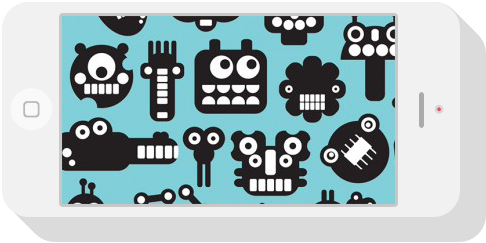
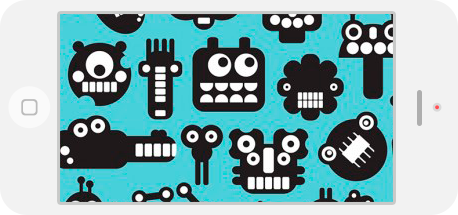
fead: add actions

diff --git a/index.html b/index.html
@@ -49,8 +49,10 @@
             <li>
                <div class="slider__slides block-color-pink">
                   <div class="slider__container container">
+                     <img class="slider__image shadow" src="assets/images/shadow.png">
                      <img class="slider__image slider__phone-vertical" src="assets/images/iPhone Vertical.png">
                      <div class="monitor-black vertical"></div>
+                     <img class="slider__image shadow-horizontal" src="assets/images/shadow.png">
                      <img class="slider__image slider__phone-horizontal" src="assets/images/iPhone Horizontal.png">
                      <div class="monitor-black horizontal"></div>
                   </div>
@@ -263,17 +265,25 @@
             ligula, eget lacinia odio sem nec elit. Fusce dapibus, tellus ac cursus commodo, tortor mauris
             condimentum nibh.</p>
          <div class="contacts__footer container-flex">
-            <form class="contacts__form">
+            <form class="contacts__form" action="#">
                <input type="text" name="name" required class="contacts__form-field contacts__form-field_narrow"
-                  placeholder="Name (Required)" pattern="^[A-Z][A-Za-z' -]+$">
+                  placeholder="Name (Required)">
+               <!-- pattern="^[A-Z][A-Za-z' -]+$" -->
                <input type="email" name="email" required class="contacts__form-field contacts__form-field_narrow"
                   placeholder="Email (Required)">
                <input type="text" name="subject" class="contacts__form-field contacts__form-field_narrow"
                   placeholder="Subject">
-               <textarea name="description" class="contacts__form-field contacts__form-field_wide"
+               <textarea name="description" class="contacts__form-field contacts__form-field_wide" maxlength="300"
                   placeholder="Describe your project in detail..."></textarea>
                <input type="submit" value="Submit" class="contacts__form-button-submit">
             </form>
+            <div class="modal">
+               <div class="modal__window">
+                  <p>The letter was sent</p>
+                  <div class="info"></div>
+                  <button type="button" class="ok">OK</button>
+               </div>
+            </div>
             <div class="contacts__info">
                <h3 class="contacts__info-subheading subheading">Contact Information</h3>
                <p class="contacts__info-text text">Quisque hendrerit purus dapibus, ornare nibh vitae, viverra nibh.

diff --git a/style.css b/style.css
@@ -151,7 +151,7 @@ header {
    position: relative;
    height: 100%;
    font-size: 0;
-   transition: margin-left 100ms;
+   transition: margin-left 110ms;
    margin-left: -1020px;
 }
 
@@ -177,12 +177,24 @@ header {
 }
 
 .slider__phone-vertical {
-   left: 70px;
+   left: 72px;
+   top: 52.5px;
 }
 
 .slider__phone-horizontal {
-   right: 71px;
-   top: 172px;
+   right: 97px;
+   top: 174px;
+}
+
+.shadow {
+   left: 72px;
+   top: 53px;
+}
+
+.shadow-horizontal {
+   transform: rotate(90deg) scale(1, -1);
+   right: 193px;
+   top: 52px;
 }
 
 .monitor-black {
@@ -201,12 +213,12 @@ header {
 
 .monitor-black.vertical {
    left: 85.5px;
-   top: 118px;
+   top: 117px;
 }
 
 .monitor-black.horizontal {
    left: 517px;
-   top: 115px;
+   top: 114.5px;
    transform: rotate(90deg);
 }
 
@@ -339,17 +351,17 @@ header {
 
 .portfolio__image-container {
    max-width: 220px;
-   height: 187px;
+   max-height: 187px;
 }
 
 .portfolio__image-container img {
    width: 100%;
-   height: 100%;
+   height: 110%;
+   max-height: 187px;
 }
 
 .portfolio__image-container_active img {
    border: 5px solid #F06C64;
-   box-sizing: border-box;
 }
 
 /* About us */
@@ -425,7 +437,8 @@ header {
    background-color: #d6564f;
    border-style: none;
    margin-bottom: 16px;
-   padding-left: 15px;
+   padding: 0 15px;
+   color: #f0d8d9;
 }
 
 .contacts__form-field::placeholder {
@@ -452,6 +465,42 @@ header {
    height: 30px;
    background-color: #d6564f;
    color: #f0d8d9;
+}
+
+.modal {
+   display: none;
+   position: fixed;
+   left: 0;
+   top: 0;
+   overflow: auto;
+   z-index: 1;
+   width: 100%;
+   height: 100%;
+   background-color: rgba(0, 0, 0, 0.7);
+   text-align: center;
+}
+
+.modal__window {
+   text-align: left;
+   display: inline-block;
+   background-color: #e36861;
+   margin-top: 20%;
+   padding: 20px;
+   max-width: 50%;
+   min-width: 30%;
+   border-radius: 5px;
+   font-family: 'Lato-Light';
+   word-wrap: break-word;
+}
+
+.ok {
+   background-color: #f48c8f;
+   color: #FFF;
+   padding: 1%;
+   width: 15%;
+   border-style: none;
+   border-radius: 5px;
+   margin-top: 50px;
 }
 
 .contacts__info {

diff --git a/script.js b/script.js
@@ -50,7 +50,7 @@ document.querySelector('.slider__arrow-left').onclick = function () {
       deactiveMonitorVertical.classList.remove('monitor-black_active');
       deactiveMonitorHorizontal.classList.remove('monitor-black_active');
    });
-   slider.style.transition = 'margin-left 100ms';
+   slider.style.transition = 'margin-left 110ms';
    slider.style.marginLeft = position + 'px';
 }
 
@@ -68,7 +68,7 @@ document.querySelector('.slider__arrow-right').onclick = function () {
       deactiveMonitorVertical.classList.remove('monitor-black_active');
       deactiveMonitorHorizontal.classList.remove('monitor-black_active');
    });
-   slider.style.transition = 'margin-left 100ms';
+   slider.style.transition = 'margin-left 110ms';
    slider.style.marginLeft = position + 'px';
 }
 
@@ -99,3 +99,34 @@ images.forEach(image => {
       image.classList.add('portfolio__image-container_active');
    })
 })
+
+
+/* Form Contacts */
+
+let modal = document.querySelector('.modal');
+let modalWindow = document.querySelector('.modal__window');
+let okButton = document.querySelector('.ok');
+let form = document.querySelector('form');
+let info = document.querySelector('.info');
+
+
+form.onsubmit = function window() {
+   modal.style.display = 'block';
+   document.body.style.overflowY = 'hidden';
+
+   let subject = document.createElement('p');
+   subject.innerHTML = (form.elements["subject"].value !== "") ? 'Subject: ' + form.elements["subject"].value : 'Without subject';
+   info.prepend(subject);
+
+   let description = document.createElement('p');
+   description.innerHTML = (form.elements["description"].value !== "") ? 'Description: ' + form.elements["description"].value : 'Without description';
+   subject.after(description);
+
+   okButton.onclick = function () {
+      modal.style.display = 'none';
+      document.body.style.overflowY = '';
+      let info = document.querySelector('.info');
+      info.innerHTML = '';
+   }
+   return false;
+}
